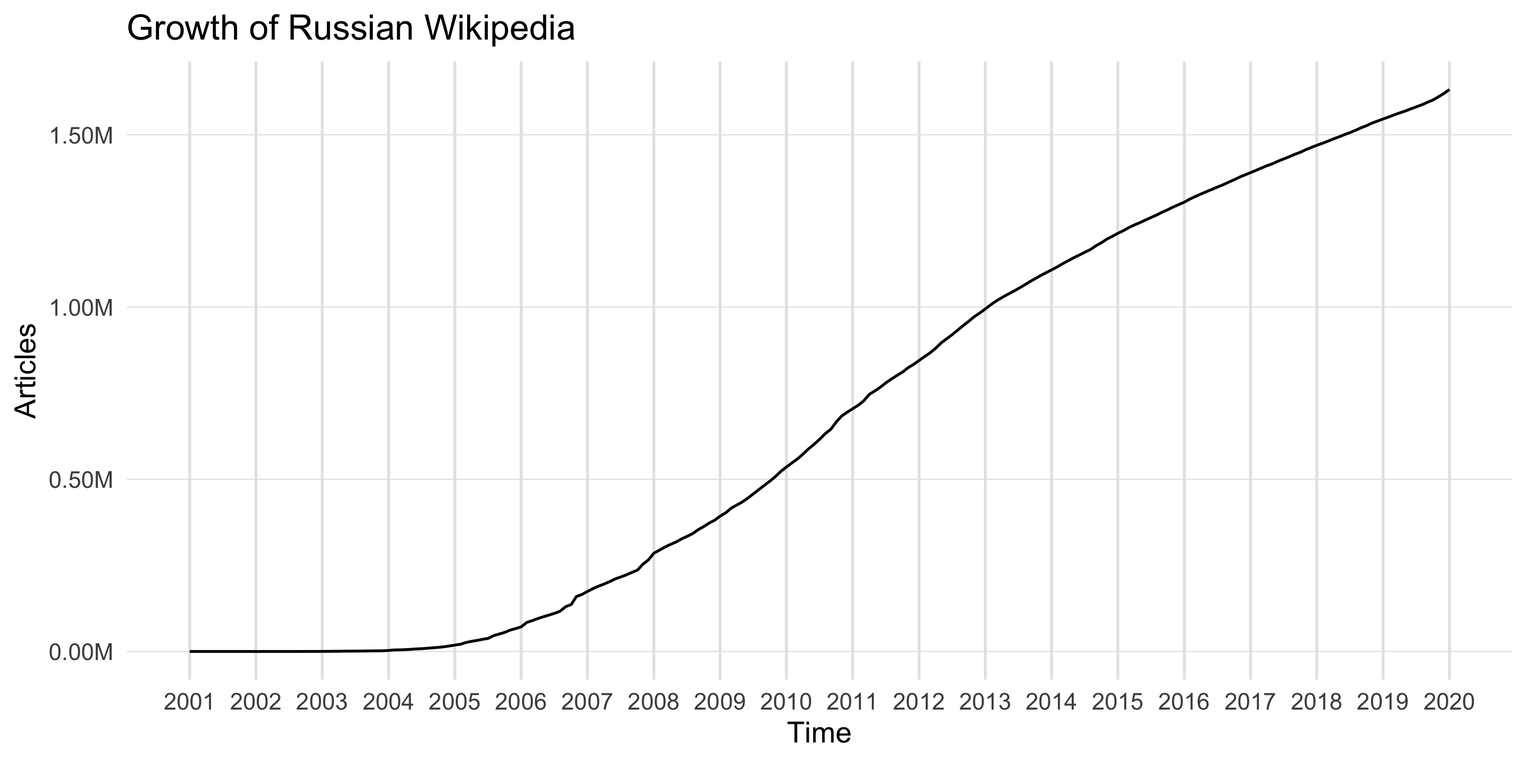
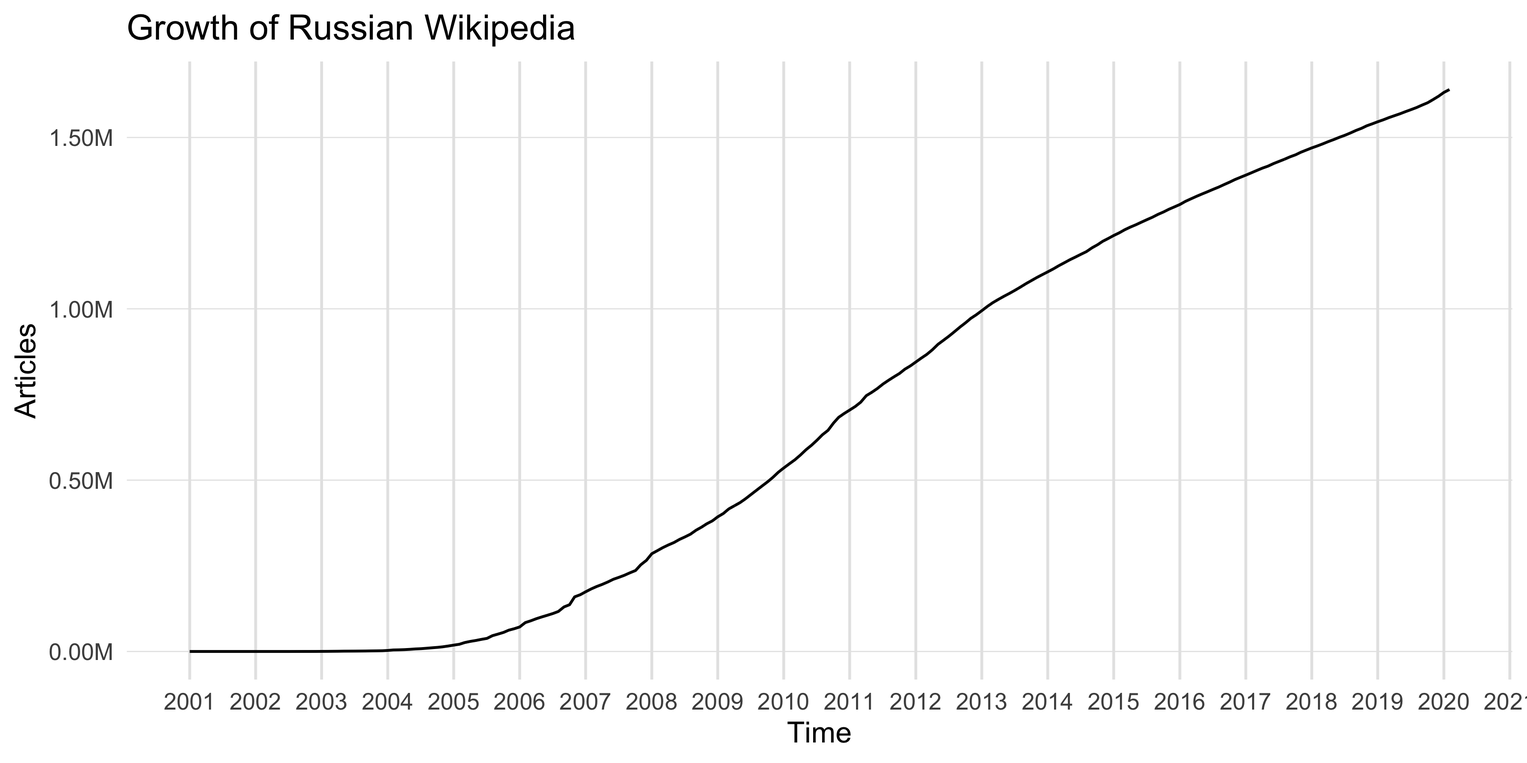
Minor updates

diff --git a/docs/articles/waxer.html b/docs/articles/waxer.html
@@ -5,13 +5,13 @@
 <meta charset="utf-8">
 <meta http-equiv="X-UA-Compatible" content="IE=edge">
 <meta name="viewport" content="width=device-width, initial-scale=1.0">
-<title>Introduction to {waxer} • waxer</title>
+<title>Introduction to waxer • waxer</title>
 <!-- jquery --><script src="https://cdnjs.cloudflare.com/ajax/libs/jquery/3.4.1/jquery.min.js" integrity="sha256-CSXorXvZcTkaix6Yvo6HppcZGetbYMGWSFlBw8HfCJo=" crossorigin="anonymous"></script><!-- Bootstrap --><link href="https://cdnjs.cloudflare.com/ajax/libs/bootswatch/3.4.0/paper/bootstrap.min.css" rel="stylesheet" crossorigin="anonymous">
 <script src="https://cdnjs.cloudflare.com/ajax/libs/twitter-bootstrap/3.4.1/js/bootstrap.min.js" integrity="sha256-nuL8/2cJ5NDSSwnKD8VqreErSWHtnEP9E7AySL+1ev4=" crossorigin="anonymous"></script><!-- bootstrap-toc --><link rel="stylesheet" href="../bootstrap-toc.css">
 <script src="../bootstrap-toc.js"></script><!-- Font Awesome icons --><link rel="stylesheet" href="https://cdnjs.cloudflare.com/ajax/libs/font-awesome/5.12.1/css/all.min.css" integrity="sha256-mmgLkCYLUQbXn0B1SRqzHar6dCnv9oZFPEC1g1cwlkk=" crossorigin="anonymous">
 <link rel="stylesheet" href="https://cdnjs.cloudflare.com/ajax/libs/font-awesome/5.12.1/css/v4-shims.min.css" integrity="sha256-wZjR52fzng1pJHwx4aV2AO3yyTOXrcDW7jBpJtTwVxw=" crossorigin="anonymous">
 <!-- clipboard.js --><script src="https://cdnjs.cloudflare.com/ajax/libs/clipboard.js/2.0.6/clipboard.min.js" integrity="sha256-inc5kl9MA1hkeYUt+EC3BhlIgyp/2jDIyBLS6k3UxPI=" crossorigin="anonymous"></script><!-- headroom.js --><script src="https://cdnjs.cloudflare.com/ajax/libs/headroom/0.11.0/headroom.min.js" integrity="sha256-AsUX4SJE1+yuDu5+mAVzJbuYNPHj/WroHuZ8Ir/CkE0=" crossorigin="anonymous"></script><script src="https://cdnjs.cloudflare.com/ajax/libs/headroom/0.11.0/jQuery.headroom.min.js" integrity="sha256-ZX/yNShbjqsohH1k95liqY9Gd8uOiE1S4vZc+9KQ1K4=" crossorigin="anonymous"></script><!-- pkgdown --><link href="../pkgdown.css" rel="stylesheet">
-<script src="../pkgdown.js"></script><meta property="og:title" content="Introduction to {waxer}">
+<script src="../pkgdown.js"></script><meta property="og:title" content="Introduction to waxer">
 <meta property="og:description" content="waxer">
 <!-- mathjax --><script src="https://cdnjs.cloudflare.com/ajax/libs/mathjax/2.7.5/MathJax.js" integrity="sha256-nvJJv9wWKEm88qvoQl9ekL2J+k/RWIsaSScxxlsrv8k=" crossorigin="anonymous"></script><script src="https://cdnjs.cloudflare.com/ajax/libs/mathjax/2.7.5/config/TeX-AMS-MML_HTMLorMML.js" integrity="sha256-84DKXVJXs0/F8OTMzX4UR909+jtl4G7SPypPavF+GfA=" crossorigin="anonymous"></script><!--[if lt IE 9]>
 <script src="https://oss.maxcdn.com/html5shiv/3.7.3/html5shiv.min.js"></script>
@@ -63,10 +63,10 @@
 
       
 
-      </header><script src="waxer_files/header-attrs-2.2/header-attrs.js"></script><div class="row">
+      </header><script src="waxer_files/header-attrs-2.3/header-attrs.js"></script><div class="row">
   <div class="col-md-9 contents">
     <div class="page-header toc-ignore">
-      <h1 data-toc-skip>Introduction to {waxer}</h1>
+      <h1 data-toc-skip>Introduction to waxer</h1>
             
       
       <small class="dont-index">Source: <a href="https://github.com/bearloga/waxer/blob/master/vignettes/waxer.Rmd"><code>vignettes/waxer.Rmd</code></a></small>
@@ -226,7 +226,7 @@
 <span class="co">#&gt; 4 en.wikiped… COVID-19 pandemic     2019-20 China pneumonia o… 2020-04-01     16</span>
 <span class="co">#&gt; 5 en.wikiped… COVID-19 pandemic     China pneumonia outbreak   2020-04-01      4</span>
 <span class="co">#&gt; 6 en.wikiped… COVID-19 pandemic     2019–20 China pneumonia o… 2020-04-01    153</span></pre></body></html></div>
-<p>On 1 April 2020, the <a href="https://en.wikipedia.org/wiki/2019%E2%80%9320_coronavirus_pandemic"><em>2019–20 coronavirus pandemic</em></a> article had 96 redirects to it with traffic to them (at least 1 view). The most visited redirects are:</p>
+<p>On 1 April 2020, the <a href="https://en.wikipedia.org/wiki/2019%E2%80%9320_coronavirus_pandemic"><em>2019–20 coronavirus pandemic</em></a> article had 97 redirects to it with traffic to them (at least 1 view). The most visited redirects are:</p>
 <div class="sourceCode" id="cb12"><html><body><pre class="r"><span class="no">pvs_with_redirects</span> <span class="kw">%&gt;%</span>
   <span class="fu"><a href="https://dplyr.tidyverse.org/reference/filter.html">filter</a></span>(!<span class="fu"><a href="https://rdrr.io/r/base/NA.html">is.na</a></span>(<span class="no">redirect_name</span>)) <span class="kw">%&gt;%</span>
   <span class="fu"><a href="https://dplyr.tidyverse.org/reference/top_n.html">top_n</a></span>(<span class="fl">10</span>, <span class="no">views</span>) <span class="kw">%&gt;%</span>
@@ -260,7 +260,7 @@
 <span class="co">#&gt;   project    page_name           date       total_views redirect_views redirects</span>
 <span class="co">#&gt;   &lt;chr&gt;      &lt;chr&gt;               &lt;date&gt;           &lt;int&gt;          &lt;int&gt;     &lt;int&gt;</span>
 <span class="co">#&gt; 1 en.wikipe… 2019–20 coronaviru… 2020-04-01      810193              0         0</span>
-<span class="co">#&gt; 2 en.wikipe… COVID-19 pandemic   2020-04-01      899018         898647        96</span></pre></body></html></div>
+<span class="co">#&gt; 2 en.wikipe… COVID-19 pandemic   2020-04-01      899028         898657        97</span></pre></body></html></div>
 </div>
 <div id="project-views" class="section level3">
 <h3 class="hasAnchor">
@@ -274,7 +274,7 @@
 <span class="no">project_views</span> <span class="kw">&lt;-</span> <span class="fu"><a href="https://purrr.tidyverse.org/reference/map.html">map_dfr</a></span>(
   <span class="no">projects</span>, <span class="no">wx_project_views</span>,
   <span class="kw">access_method</span> <span class="kw">=</span> <span class="st">"desktop"</span>, <span class="kw">agent_type</span> <span class="kw">=</span> <span class="st">"user"</span>,
-  <span class="kw">granularity</span> <span class="kw">=</span> <span class="st">"monthly"</span>, <span class="kw">start_date</span> <span class="kw">=</span> <span class="st">"20160101"</span>, <span class="kw">end_date</span> <span class="kw">=</span> <span class="st">"20200601"</span>,
+  <span class="kw">granularity</span> <span class="kw">=</span> <span class="st">"monthly"</span>, <span class="kw">start_date</span> <span class="kw">=</span> <span class="st">"20160101"</span>, <span class="kw">end_date</span> <span class="kw">=</span> <span class="st">"20200701"</span>,
   <span class="kw">.id</span> <span class="kw">=</span> <span class="st">"language"</span>
 )</pre></body></html></div>
 <div class="sourceCode" id="cb15"><html><body><pre class="r"><span class="fu"><a href="https://rdrr.io/r/utils/head.html">head</a></span>(<span class="no">project_views</span>)
@@ -369,7 +369,7 @@
   <span class="kw">project</span> <span class="kw">=</span> <span class="st">"en.wikipedia"</span>,
   <span class="kw">granularity</span> <span class="kw">=</span> <span class="st">"monthly"</span>,
   <span class="kw">start_date</span> <span class="kw">=</span> <span class="st">"20190101"</span>,
-  <span class="kw">end_date</span> <span class="kw">=</span> <span class="st">"20190430"</span>
+  <span class="kw">end_date</span> <span class="kw">=</span> <span class="st">"20190301"</span>
 )</pre></body></html></div>
 <p>Top 3 articles from each month:</p>
 <div class="sourceCode" id="cb21"><html><body><pre class="r"><span class="no">top_viewed</span> <span class="kw">%&gt;%</span>
@@ -377,32 +377,30 @@
   <span class="fu"><a href="https://dplyr.tidyverse.org/reference/filter.html">filter</a></span>(<span class="no">page_name</span> <span class="kw">!=</span> <span class="st">"Main Page"</span>, !<span class="fu"><a href="https://rdrr.io/r/base/grep.html">grepl</a></span>(<span class="st">"^(Special|Wikipedia)\\:.*"</span>, <span class="no">page_name</span>)) <span class="kw">%&gt;%</span>
   <span class="fu"><a href="https://dplyr.tidyverse.org/reference/group_by.html">group_by</a></span>(<span class="no">date</span>) <span class="kw">%&gt;%</span>
   <span class="fu"><a href="https://dplyr.tidyverse.org/reference/top_n.html">top_n</a></span>(<span class="fl">3</span>, <span class="no">views</span>)
-<span class="co">#&gt; # A tibble: 12 x 5</span>
-<span class="co">#&gt; # Groups:   date [4]</span>
-<span class="co">#&gt;    date       project      page_name                views  rank</span>
-<span class="co">#&gt;    &lt;date&gt;     &lt;chr&gt;        &lt;chr&gt;                    &lt;int&gt; &lt;int&gt;</span>
-<span class="co">#&gt;  1 2019-01-01 en.wikipedia Ted Bundy              7293874     3</span>
-<span class="co">#&gt;  2 2019-01-01 en.wikipedia Louis Tomlinson        5231127     4</span>
-<span class="co">#&gt;  3 2019-01-01 en.wikipedia XHamster               4039614     6</span>
-<span class="co">#&gt;  4 2019-02-01 en.wikipedia Freddie Mercury        6464633     3</span>
-<span class="co">#&gt;  5 2019-02-01 en.wikipedia Louis Tomlinson        5497023     4</span>
-<span class="co">#&gt;  6 2019-02-01 en.wikipedia Grover                 4975383     5</span>
-<span class="co">#&gt;  7 2019-03-01 en.wikipedia Captain Marvel (film)  7070703     3</span>
-<span class="co">#&gt;  8 2019-03-01 en.wikipedia Luke Perry             6362644     4</span>
-<span class="co">#&gt;  9 2019-03-01 en.wikipedia Us (2019 film)         4590483     6</span>
-<span class="co">#&gt; 10 2019-04-01 en.wikipedia Avengers: Endgame     13499153     3</span>
-<span class="co">#&gt; # … with 2 more rows</span></pre></body></html></div>
+<span class="co">#&gt; # A tibble: 9 x 5</span>
+<span class="co">#&gt; # Groups:   date [3]</span>
+<span class="co">#&gt;   date       project      page_name               views  rank</span>
+<span class="co">#&gt;   &lt;date&gt;     &lt;chr&gt;        &lt;chr&gt;                   &lt;int&gt; &lt;int&gt;</span>
+<span class="co">#&gt; 1 2019-01-01 en.wikipedia Ted Bundy             7293874     3</span>
+<span class="co">#&gt; 2 2019-01-01 en.wikipedia Louis Tomlinson       5231127     4</span>
+<span class="co">#&gt; 3 2019-01-01 en.wikipedia XHamster              4039614     6</span>
+<span class="co">#&gt; 4 2019-02-01 en.wikipedia Freddie Mercury       6464633     3</span>
+<span class="co">#&gt; 5 2019-02-01 en.wikipedia Louis Tomlinson       5497023     4</span>
+<span class="co">#&gt; 6 2019-02-01 en.wikipedia Grover                4975383     5</span>
+<span class="co">#&gt; 7 2019-03-01 en.wikipedia Captain Marvel (film) 7070703     3</span>
+<span class="co">#&gt; 8 2019-03-01 en.wikipedia Luke Perry            6362644     4</span>
+<span class="co">#&gt; 9 2019-03-01 en.wikipedia Us (2019 film)        4590483     6</span></pre></body></html></div>
 </div>
 <div id="unique-devices" class="section level2">
 <h2 class="hasAnchor">
 <a href="#unique-devices" class="anchor"></a>Unique devices</h2>
-<p>To obtain the monthly estimated number of unique devices that visited German Wikivoyage from Jan 2018 to May 2020:</p>
+<p>To obtain the monthly estimated number of unique devices that visited German Wikivoyage from Jan 2018 to June 2020:</p>
 <div class="sourceCode" id="cb22"><html><body><pre class="r"><span class="no">unique_devices</span> <span class="kw">&lt;-</span> <span class="fu"><a href="../reference/wx_unique_devices.html">wx_unique_devices</a></span>(
   <span class="kw">project</span> <span class="kw">=</span> <span class="st">"de.wikivoyage"</span>,
   <span class="kw">granularity</span> <span class="kw">=</span> <span class="st">"monthly"</span>,
   <span class="kw">access_site</span> <span class="kw">=</span> <span class="st">"all"</span>,
   <span class="kw">start_date</span> <span class="kw">=</span> <span class="st">"20180101"</span>,
-  <span class="kw">end_date</span> <span class="kw">=</span> <span class="st">"20200531"</span>
+  <span class="kw">end_date</span> <span class="kw">=</span> <span class="st">"20200630"</span>
 )</pre></body></html></div>
 <div class="sourceCode" id="cb23"><html><body><pre class="r"><span class="fu"><a href="https://rdrr.io/r/utils/head.html">head</a></span>(<span class="no">unique_devices</span>)
 <span class="co">#&gt; # A tibble: 6 x 5</span>
@@ -451,12 +449,12 @@
 <span class="co">#&gt; # A tibble: 6 x 3</span>
 <span class="co">#&gt;   project      date       editors</span>
 <span class="co">#&gt;   &lt;chr&gt;        &lt;date&gt;       &lt;int&gt;</span>
-<span class="co">#&gt; 1 en.wikipedia 2020-01-01    9078</span>
-<span class="co">#&gt; 2 en.wikipedia 2020-01-02   10544</span>
-<span class="co">#&gt; 3 en.wikipedia 2020-01-03   10494</span>
-<span class="co">#&gt; 4 en.wikipedia 2020-01-04    9887</span>
-<span class="co">#&gt; 5 en.wikipedia 2020-01-05    9952</span>
-<span class="co">#&gt; 6 en.wikipedia 2020-01-06   10863</span></pre></body></html></div>
+<span class="co">#&gt; 1 en.wikipedia 2020-01-01    9079</span>
+<span class="co">#&gt; 2 en.wikipedia 2020-01-02   10543</span>
+<span class="co">#&gt; 3 en.wikipedia 2020-01-03   10491</span>
+<span class="co">#&gt; 4 en.wikipedia 2020-01-04    9888</span>
+<span class="co">#&gt; 5 en.wikipedia 2020-01-05    9953</span>
+<span class="co">#&gt; 6 en.wikipedia 2020-01-06   10866</span></pre></body></html></div>
 <div id="by-activity-level" class="section level2">
 <h2 class="hasAnchor">
 <a href="#by-activity-level" class="anchor"></a>By activity level</h2>
@@ -478,12 +476,12 @@
 <span class="co">#&gt; # A tibble: 6 x 4</span>
 <span class="co">#&gt;   activity_level project      date       editors</span>
 <span class="co">#&gt;   &lt;chr&gt;          &lt;chr&gt;        &lt;date&gt;       &lt;int&gt;</span>
-<span class="co">#&gt; 1 low            en.wikipedia 2020-01-01    6427</span>
-<span class="co">#&gt; 2 low            en.wikipedia 2020-01-02    7610</span>
-<span class="co">#&gt; 3 low            en.wikipedia 2020-01-03    7581</span>
-<span class="co">#&gt; 4 low            en.wikipedia 2020-01-04    7046</span>
-<span class="co">#&gt; 5 low            en.wikipedia 2020-01-05    7013</span>
-<span class="co">#&gt; 6 low            en.wikipedia 2020-01-06    7878</span></pre></body></html></div>
+<span class="co">#&gt; 1 low            en.wikipedia 2020-01-01    6429</span>
+<span class="co">#&gt; 2 low            en.wikipedia 2020-01-02    7609</span>
+<span class="co">#&gt; 3 low            en.wikipedia 2020-01-03    7578</span>
+<span class="co">#&gt; 4 low            en.wikipedia 2020-01-04    7047</span>
+<span class="co">#&gt; 5 low            en.wikipedia 2020-01-05    7014</span>
+<span class="co">#&gt; 6 low            en.wikipedia 2020-01-06    7881</span></pre></body></html></div>
 <div class="sourceCode" id="cb29"><html><body><pre class="r"><span class="no">active_editors_by_activity</span> <span class="kw">&lt;-</span> <span class="no">active_editors_by_activity</span> <span class="kw">%&gt;%</span>
   <span class="fu"><a href="https://dplyr.tidyverse.org/reference/mutate.html">mutate</a></span>(
     <span class="kw">activity_level</span> <span class="kw">=</span> <span class="fu"><a href="https://rdrr.io/r/base/factor.html">factor</a></span>(
@@ -513,7 +511,7 @@
   <span class="no">projects</span>,
   <span class="no">wx_active_editors</span>,
   <span class="kw">editor_type</span> <span class="kw">=</span> <span class="st">"user"</span>, <span class="kw">page_type</span> <span class="kw">=</span> <span class="st">"content"</span>,
-  <span class="kw">start_date</span> <span class="kw">=</span> <span class="st">"20150101"</span>, <span class="kw">end_date</span> <span class="kw">=</span> <span class="st">"20200601"</span>,
+  <span class="kw">start_date</span> <span class="kw">=</span> <span class="st">"20150101"</span>, <span class="kw">end_date</span> <span class="kw">=</span> <span class="st">"20200701"</span>,
   <span class="kw">granularity</span> <span class="kw">=</span> <span class="st">"monthly"</span>,
   <span class="kw">.id</span> <span class="kw">=</span> <span class="st">"language"</span>
 )</pre></body></html></div>
@@ -521,12 +519,12 @@
 <span class="co">#&gt; # A tibble: 6 x 4</span>
 <span class="co">#&gt;   language project      date       editors</span>
 <span class="co">#&gt;   &lt;chr&gt;    &lt;chr&gt;        &lt;date&gt;       &lt;int&gt;</span>
-<span class="co">#&gt; 1 French   fr.wikipedia 2015-01-01   14180</span>
-<span class="co">#&gt; 2 French   fr.wikipedia 2015-02-01   14150</span>
-<span class="co">#&gt; 3 French   fr.wikipedia 2015-03-01   15312</span>
-<span class="co">#&gt; 4 French   fr.wikipedia 2015-04-01   13917</span>
-<span class="co">#&gt; 5 French   fr.wikipedia 2015-05-01   13769</span>
-<span class="co">#&gt; 6 French   fr.wikipedia 2015-06-01   13314</span></pre></body></html></div>
+<span class="co">#&gt; 1 French   fr.wikipedia 2015-01-01   14177</span>
+<span class="co">#&gt; 2 French   fr.wikipedia 2015-02-01   14143</span>
+<span class="co">#&gt; 3 French   fr.wikipedia 2015-03-01   15307</span>
+<span class="co">#&gt; 4 French   fr.wikipedia 2015-04-01   13914</span>
+<span class="co">#&gt; 5 French   fr.wikipedia 2015-05-01   13768</span>
+<span class="co">#&gt; 6 French   fr.wikipedia 2015-06-01   13311</span></pre></body></html></div>
 <div class="sourceCode" id="cb32"><html><body><pre class="r"><span class="fu"><a href="https://ggplot2.tidyverse.org/reference/ggplot.html">ggplot</a></span>(<span class="no">active_editors_by_wiki</span>) +
   <span class="fu"><a href="https://ggplot2.tidyverse.org/reference/geom_path.html">geom_line</a></span>(<span class="fu"><a href="https://ggplot2.tidyverse.org/reference/aes.html">aes</a></span>(<span class="kw">x</span> <span class="kw">=</span> <span class="no">date</span>, <span class="kw">color</span> <span class="kw">=</span> <span class="no">language</span>, <span class="kw">y</span> <span class="kw">=</span> <span class="no">editors</span>)) +
   <span class="fu"><a href="https://ggplot2.tidyverse.org/reference/scale_date.html">scale_x_date</a></span>(<span class="kw">date_breaks</span> <span class="kw">=</span> <span class="st">"1 year"</span>, <span class="kw">minor_breaks</span> <span class="kw">=</span> <span class="kw">NULL</span>, <span class="kw">date_labels</span> <span class="kw">=</span> <span class="st">"%b\n%Y"</span>) +
@@ -561,7 +559,7 @@
 <span class="co">#&gt; # A tibble: 1 x 3</span>
 <span class="co">#&gt;   project      date       new_pages</span>
 <span class="co">#&gt;   &lt;chr&gt;        &lt;date&gt;         &lt;int&gt;</span>
-<span class="co">#&gt; 1 ru.wikipedia 2019-12-01      5562</span></pre></body></html></div>
+<span class="co">#&gt; 1 ru.wikipedia 2019-12-01      5559</span></pre></body></html></div>
 <p>How has Russian Wikipedia grown over time since it started in May 2001?</p>
 <div class="sourceCode" id="cb35"><html><body><pre class="r"><span class="no">total_pages</span> <span class="kw">&lt;-</span> <span class="fu"><a href="../reference/wx_total_pages.html">wx_total_pages</a></span>(
   <span class="st">"ru.wikipedia"</span>,
@@ -569,18 +567,18 @@
   <span class="kw">page_type</span> <span class="kw">=</span> <span class="st">"content"</span>, <span class="co"># focus on articles</span>
   <span class="kw">granularity</span> <span class="kw">=</span> <span class="st">"monthly"</span>,
   <span class="kw">start_date</span> <span class="kw">=</span> <span class="st">"20010501"</span>,
-  <span class="kw">end_date</span> <span class="kw">=</span> <span class="st">"20200601"</span>
+  <span class="kw">end_date</span> <span class="kw">=</span> <span class="st">"20200701"</span>
 )</pre></body></html></div>
 <div class="sourceCode" id="cb36"><html><body><pre class="r"><span class="fu"><a href="https://rdrr.io/r/utils/head.html">tail</a></span>(<span class="no">total_pages</span>)
 <span class="co">#&gt; # A tibble: 6 x 5</span>
 <span class="co">#&gt;   project      date       total_pages existing_pages new_pages</span>
 <span class="co">#&gt;   &lt;chr&gt;        &lt;date&gt;           &lt;int&gt;          &lt;dbl&gt;     &lt;int&gt;</span>
-<span class="co">#&gt; 1 ru.wikipedia 2019-12-01     1587165        1581235      5930</span>
-<span class="co">#&gt; 2 ru.wikipedia 2020-01-01     1594452        1587165      7287</span>
-<span class="co">#&gt; 3 ru.wikipedia 2020-02-01     1601305        1594452      6853</span>
-<span class="co">#&gt; 4 ru.wikipedia 2020-03-01     1610220        1601305      8915</span>
-<span class="co">#&gt; 5 ru.wikipedia 2020-04-01     1620164        1610220      9944</span>
-<span class="co">#&gt; 6 ru.wikipedia 2020-05-01     1631430        1620164     11266</span></pre></body></html></div>
+<span class="co">#&gt; 1 ru.wikipedia 2020-01-01     1594429        1587146      7283</span>
+<span class="co">#&gt; 2 ru.wikipedia 2020-02-01     1601288        1594429      6859</span>
+<span class="co">#&gt; 3 ru.wikipedia 2020-03-01     1610212        1601288      8924</span>
+<span class="co">#&gt; 4 ru.wikipedia 2020-04-01     1620174        1610212      9962</span>
+<span class="co">#&gt; 5 ru.wikipedia 2020-05-01     1631391        1620174     11217</span>
+<span class="co">#&gt; 6 ru.wikipedia 2020-06-01     1639934        1631391      8543</span></pre></body></html></div>
 <div class="sourceCode" id="cb37"><html><body><pre class="r"><span class="fu"><a href="https://ggplot2.tidyverse.org/reference/ggplot.html">ggplot</a></span>(<span class="no">total_pages</span>) +
   <span class="fu"><a href="https://ggplot2.tidyverse.org/reference/geom_path.html">geom_line</a></span>(<span class="fu"><a href="https://ggplot2.tidyverse.org/reference/aes.html">aes</a></span>(<span class="kw">x</span> <span class="kw">=</span> <span class="no">date</span>, <span class="kw">y</span> <span class="kw">=</span> <span class="no">total_pages</span>)) +
   <span class="fu"><a href="https://ggplot2.tidyverse.org/reference/scale_continuous.html">scale_y_continuous</a></span>(
@@ -606,7 +604,7 @@
   <span class="st">"en.wikipedia"</span>,
   <span class="fu"><a href="https://rdrr.io/r/base/c.html">c</a></span>(<span class="st">"Coronavirus disease 2019"</span>, <span class="st">"COVID-19 pandemic"</span>),
   <span class="kw">start_date</span> <span class="kw">=</span> <span class="st">"20200101"</span>,
-  <span class="kw">end_date</span> <span class="kw">=</span> <span class="st">"20200601"</span>
+  <span class="kw">end_date</span> <span class="kw">=</span> <span class="st">"20200701"</span>
 )</pre></body></html></div>
 <div class="sourceCode" id="cb39"><html><body><pre class="r"><span class="fu"><a href="https://rdrr.io/r/utils/head.html">head</a></span>(<span class="no">page_edits</span>)
 <span class="co">#&gt; # A tibble: 6 x 4</span>
@@ -655,12 +653,12 @@
 <span class="co">#&gt; # A tibble: 6 x 6</span>
 <span class="co">#&gt;   language project      date       edits editors edits_per_editor</span>
 <span class="co">#&gt;   &lt;chr&gt;    &lt;chr&gt;        &lt;date&gt;     &lt;int&gt;   &lt;int&gt;            &lt;dbl&gt;</span>
-<span class="co">#&gt; 1 French   fr.wikipedia 2020-01-01 17249    2733             6.31</span>
-<span class="co">#&gt; 2 French   fr.wikipedia 2020-01-02 20741    3523             5.89</span>
-<span class="co">#&gt; 3 French   fr.wikipedia 2020-01-03 26661    3567             7.47</span>
-<span class="co">#&gt; 4 French   fr.wikipedia 2020-01-04 25213    3375             7.47</span>
-<span class="co">#&gt; 5 French   fr.wikipedia 2020-01-05 26269    3614             7.27</span>
-<span class="co">#&gt; 6 French   fr.wikipedia 2020-01-06 23295    3562             6.54</span></pre></body></html></div>
+<span class="co">#&gt; 1 French   fr.wikipedia 2020-01-01 17237    2729             6.32</span>
+<span class="co">#&gt; 2 French   fr.wikipedia 2020-01-02 20732    3522             5.89</span>
+<span class="co">#&gt; 3 French   fr.wikipedia 2020-01-03 26628    3563             7.47</span>
+<span class="co">#&gt; 4 French   fr.wikipedia 2020-01-04 25191    3370             7.48</span>
+<span class="co">#&gt; 5 French   fr.wikipedia 2020-01-05 26238    3614             7.26</span>
+<span class="co">#&gt; 6 French   fr.wikipedia 2020-01-06 23278    3559             6.54</span></pre></body></html></div>
 <p>Using <a href="https://cran.r-project.org/package=RcppRoll">{RcppRoll}</a> we can create a rolling 7-day average to smooth out the day-to-day variability, which will be helpful for visualization:</p>
 <div class="sourceCode" id="cb43"><html><body><pre class="r"><span class="no">editing_activity</span> <span class="kw">%&gt;%</span>
   <span class="fu"><a href="https://dplyr.tidyverse.org/reference/group_by.html">group_by</a></span>(<span class="no">language</span>) <span class="kw">%&gt;%</span>
@@ -728,7 +726,7 @@
 <span class="co">#&gt;  6 February     1 COVID-19 pandemic                                 </span>
 <span class="co">#&gt;  7 February     2 COVID-19 pandemic by country and territory        </span>
 <span class="co">#&gt;  8 February     3 Deaths in 2020                                    </span>
-<span class="co">#&gt;  9 February     4 2020 Iowa Democratic caucuses                     </span>
+<span class="co">#&gt;  9 February     4 2020 Iowa Democratic presidential caucuses        </span>
 <span class="co">#&gt; 10 February     5 Timeline of the COVID-19 pandemic in February 2020</span>
 <span class="co">#&gt; # … with 5 more rows</span></pre></body></html></div>
 </div>

diff --git a/docs/reference/wx_edited_pages.html b/docs/reference/wx_edited_pages.html
@@ -212,8 +212,8 @@ Can also be a <code>Date</code> or a <code>POSIXt</code> object, which will be a
 <span class='fu'>wx_edited_pages</span>(<span class='st'>"hi.wikipedia"</span>, <span class='kw'>page_type</span> <span class='kw'>=</span> <span class='st'>"content"</span>, <span class='kw'>granularity</span> <span class='kw'>=</span> <span class='st'>"monthly"</span>)</div><div class='output co'>#&gt; <span style='color: #555555;'># A tibble: 2 x 3</span><span>
 #&gt;   project      date       edited_pages
 #&gt;   </span><span style='color: #555555;font-style: italic;'>&lt;chr&gt;</span><span>        </span><span style='color: #555555;font-style: italic;'>&lt;date&gt;</span><span>            </span><span style='color: #555555;font-style: italic;'>&lt;int&gt;</span><span>
-#&gt; </span><span style='color: #555555;'>1</span><span> hi.wikipedia 2019-11-01         </span><span style='text-decoration: underline;'>5</span><span>411
-#&gt; </span><span style='color: #555555;'>2</span><span> hi.wikipedia 2019-12-01         </span><span style='text-decoration: underline;'>5</span><span>254</div></span></pre>
+#&gt; </span><span style='color: #555555;'>1</span><span> hi.wikipedia 2019-11-01         </span><span style='text-decoration: underline;'>5</span><span>407
+#&gt; </span><span style='color: #555555;'>2</span><span> hi.wikipedia 2019-12-01         </span><span style='text-decoration: underline;'>5</span><span>249</div></span></pre>
   </div>
   <div class="col-md-3 hidden-xs hidden-sm" id="pkgdown-sidebar">
     <nav id="toc" data-toggle="toc" class="sticky-top">

diff --git a/docs/reference/wx_new_pages.html b/docs/reference/wx_new_pages.html
@@ -215,8 +215,8 @@ include 2019-12, use <code>end_date = "20200101"</code>.</p>
 <span class='fu'>wx_new_pages</span>(<span class='st'>"fr.wiktionary"</span>, <span class='kw'>granularity</span> <span class='kw'>=</span> <span class='st'>"monthly"</span>, <span class='kw'>page_type</span> <span class='kw'>=</span> <span class='st'>"content"</span>)</div><div class='output co'>#&gt; <span style='color: #555555;'># A tibble: 2 x 3</span><span>
 #&gt;   project       date       new_pages
 #&gt;   </span><span style='color: #555555;font-style: italic;'>&lt;chr&gt;</span><span>         </span><span style='color: #555555;font-style: italic;'>&lt;date&gt;</span><span>         </span><span style='color: #555555;font-style: italic;'>&lt;int&gt;</span><span>
-#&gt; </span><span style='color: #555555;'>1</span><span> fr.wiktionary 2019-11-01     </span><span style='text-decoration: underline;'>19</span><span>915
-#&gt; </span><span style='color: #555555;'>2</span><span> fr.wiktionary 2019-12-01     </span><span style='text-decoration: underline;'>16</span><span>578</div></span></pre>
+#&gt; </span><span style='color: #555555;'>1</span><span> fr.wiktionary 2019-11-01     </span><span style='text-decoration: underline;'>19</span><span>914
+#&gt; </span><span style='color: #555555;'>2</span><span> fr.wiktionary 2019-12-01     </span><span style='text-decoration: underline;'>16</span><span>576</div></span></pre>
   </div>
   <div class="col-md-3 hidden-xs hidden-sm" id="pkgdown-sidebar">
     <nav id="toc" data-toggle="toc" class="sticky-top">

diff --git a/docs/reference/wx_project_edits.html b/docs/reference/wx_project_edits.html
@@ -204,8 +204,8 @@ Can also be a <code>Date</code> or a <code>POSIXt</code> object, which will be a
 <span class='fu'>wx_project_edits</span>(<span class='st'>"ar.wikipedia"</span>, <span class='kw'>page_type</span> <span class='kw'>=</span> <span class='st'>"content"</span>, <span class='kw'>granularity</span> <span class='kw'>=</span> <span class='st'>"monthly"</span>)</div><div class='output co'>#&gt; <span style='color: #555555;'># A tibble: 2 x 3</span><span>
 #&gt;   project      date        edits
 #&gt;   </span><span style='color: #555555;font-style: italic;'>&lt;chr&gt;</span><span>        </span><span style='color: #555555;font-style: italic;'>&lt;date&gt;</span><span>      </span><span style='color: #555555;font-style: italic;'>&lt;int&gt;</span><span>
-#&gt; </span><span style='color: #555555;'>1</span><span> ar.wikipedia 2019-11-01 </span><span style='text-decoration: underline;'>561</span><span>106
-#&gt; </span><span style='color: #555555;'>2</span><span> ar.wikipedia 2019-12-01 </span><span style='text-decoration: underline;'>720</span><span>180</div></span></pre>
+#&gt; </span><span style='color: #555555;'>1</span><span> ar.wikipedia 2019-11-01 </span><span style='text-decoration: underline;'>561</span><span>100
+#&gt; </span><span style='color: #555555;'>2</span><span> ar.wikipedia 2019-12-01 </span><span style='text-decoration: underline;'>719</span><span>946</div></span></pre>
   </div>
   <div class="col-md-3 hidden-xs hidden-sm" id="pkgdown-sidebar">
     <nav id="toc" data-toggle="toc" class="sticky-top">

diff --git a/docs/articles/waxer_files/header-attrs-2.3/header-attrs.js b/docs/articles/waxer_files/header-attrs-2.3/header-attrs.js
@@ -1,0 +1,12 @@
+// Pandoc 2.9 adds attributes on both header and div. We remove the former (to
+// be compatible with the behavior of Pandoc < 2.8).
+document.addEventListener('DOMContentLoaded', function(e) {
+  var hs = document.querySelectorAll("div.section[class*='level'] > :first-child");
+  var i, h, a;
+  for (i = 0; i < hs.length; i++) {
+    h = hs[i];
+    if (!/^h[1-6]$/i.test(h.tagName)) continue;  // it should be a header h1-h6
+    a = h.attributes;
+    while (a.length > 0) h.removeAttribute(a[0].name);
+  }
+});

diff --git a/docs/articles/index.html b/docs/articles/index.html
@@ -116,7 +116,7 @@
       <p class="section-desc"></p>
 
       <dl>
-        <dt><a href="waxer.html">Introduction to {waxer}</a></dt>
+        <dt><a href="waxer.html">Introduction to waxer</a></dt>
         <dd></dt>
       </dl>
     </div>
